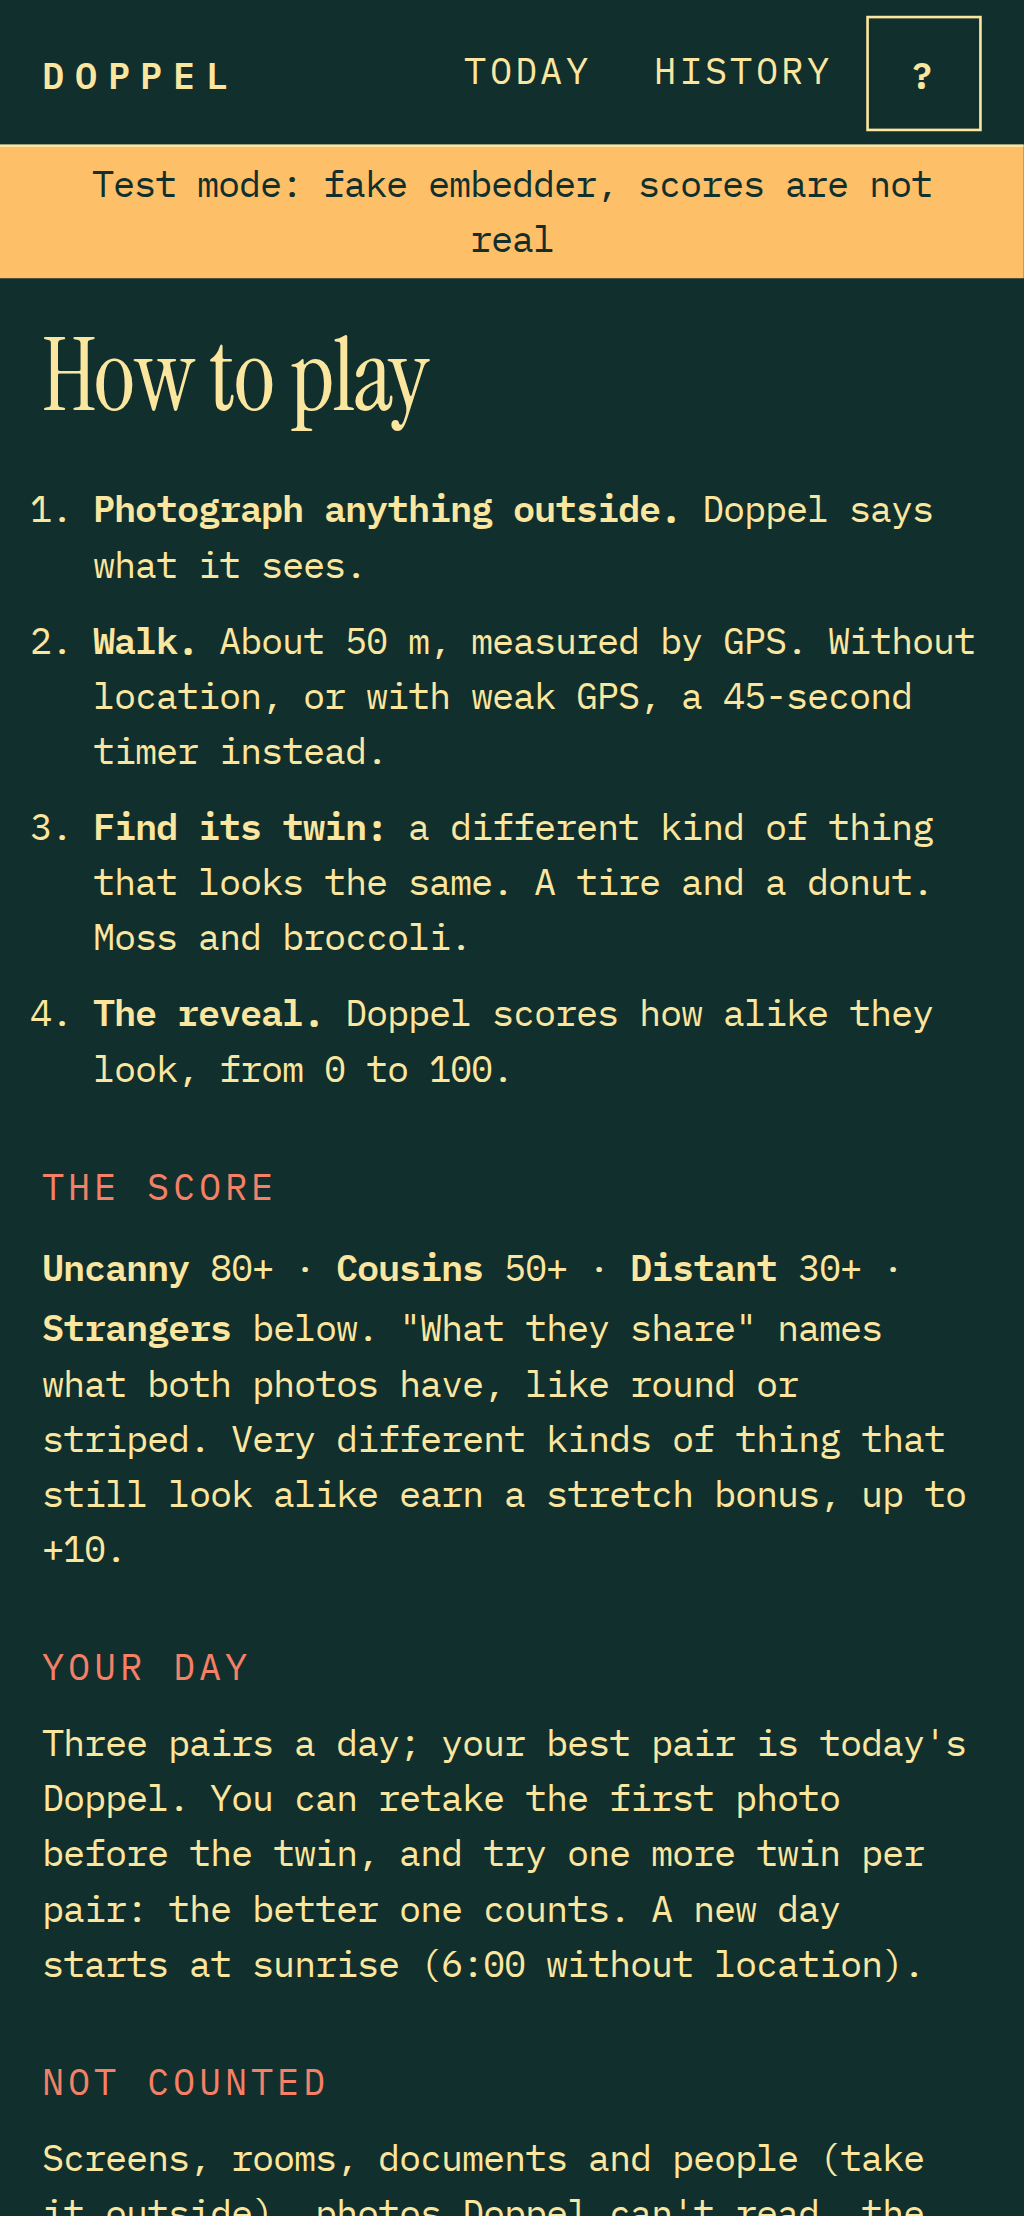
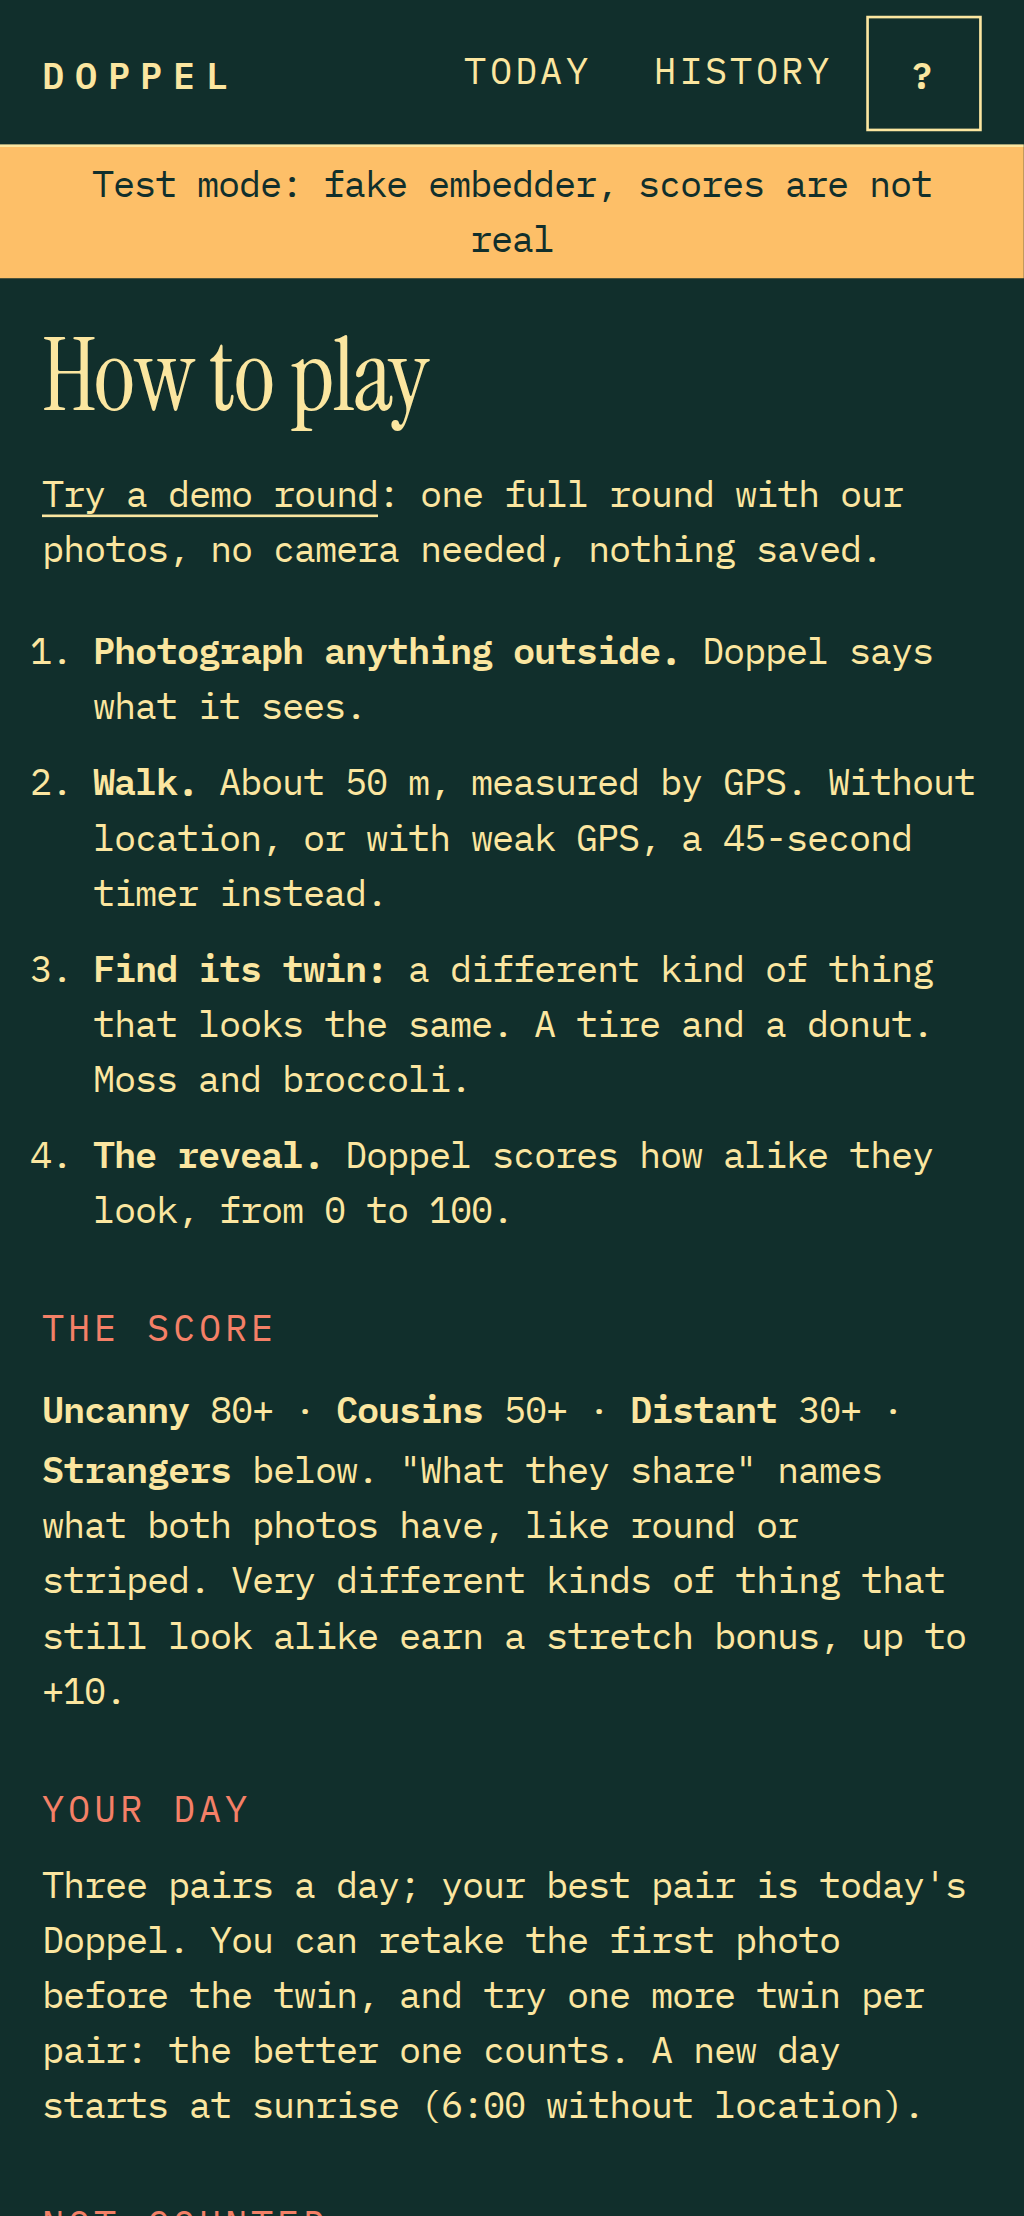
Demo round for judges: bundled CC0 pairs, no camera, real model, nothing saved

diff --git a/web/src/ui/screens.ts b/web/src/ui/screens.ts
@@ -25,6 +25,8 @@ const hud = (pair: number, right = "") => `
     <span class="hud-right" data-testid="hud-right">${right}</span>
   </div>`;
 
+const demoLink = `<p class="sub"><a href="${href.demo()}" data-testid="demo-link">Try a demo round</a> (no camera needed)</p>`;
+
 const themeReadout = (theme?: string) => (theme ? `<span data-testid="theme">Today: ${esc(theme)}</span>` : "");
 const walkedReadout = (meters: number) => `<span data-testid="walked">${meters} M WALKED</span>`;
 /** Walk: the timer while GPS isn't usable, otherwise metres walked on this walk. */
@@ -108,6 +110,7 @@ export function firstView(pair: number, ideas: string[], firstRun: boolean, prac
         <summary>Need an idea?</summary>
         <ul data-testid="ideas">${ideas.map((i) => `<li>${esc(i)}</li>`).join("")}</ul>
       </details>
+      ${demoLink}
       ${dock(shootButton("Photograph something"))}
     </section>`;
   }
@@ -125,6 +128,7 @@ export function firstView(pair: number, ideas: string[], firstRun: boolean, prac
         <summary>Need an idea?</summary>
         <ul data-testid="ideas">${ideas.map((i) => `<li>${esc(i)}</li>`).join("")}</ul>
       </details>
+      ${demoLink}
       ${dock(shootButton("Photograph something"))}
     </section>`;
 }
@@ -182,6 +186,7 @@ export function twinView(pair: number, label: string, looks: string[] = [], alt?
 }
 
 export interface RevealExtras {
+  demo?: boolean;
   canRetry: boolean;
   tries: number;
   secondKept: boolean; // after two tries: was the second twin the better one?
@@ -191,7 +196,7 @@ export function revealView(pair: number, p: Required<Pick<PairState, "first" | "
   const r = p.result;
   return `
     <section class="screen reveal" aria-label="Reveal" data-band="${r.band}">
-      ${hud(pair, walkedReadout(meters))}
+      ${x.demo ? demoHud() : hud(pair, walkedReadout(meters))}
       <div class="pair together" id="pair">
         ${slot("a", stack("a", p.first.label, true), "", r.band)}
         ${slot("b", stack("b", p.twin.label, true), "", r.band)}
@@ -203,12 +208,46 @@ export function revealView(pair: number, p: Required<Pick<PairState, "first" | "
       <p class="voice verdict" data-testid="verdict">${esc(r.verdict)}</p>
       <p class="shared" data-testid="shared"><span class="label">What they share</span> ${r.shared.length ? `Both: ${r.shared.map(esc).join(" · ")}` : NOTHING_SHARED}</p>
       ${x.tries >= 2 ? `<p class="best-of" data-testid="best-of"><span class="label">Best of 2</span> ${x.secondKept ? "Your second twin scored higher." : "Your first twin scored higher, so it stays."}</p>` : ""}
-      <div class="dock">
+      ${x.demo ? `<div class="dock">
+        <button class="btn btn-shoot" id="demo-again" type="button">Another demo pair</button>
+        <a class="link" href="${href.today()}">Back to today</a>
+      </div>` : `<div class="dock">
         <button class="btn btn-shoot" id="next" type="button">${last ? "See today" : "Next pair"}</button>
         ${x.canRetry ? `<button class="link" id="retry" type="button">Try another twin (one more walk)</button>` : ""}
+      </div>`}
+    </section>`;
+}
+
+/** Demo round (for judges, no camera): the same HUD row, labelled as a demo. */
+export const demoHud = () => `
+  <div class="hud" aria-label="Progress">
+    <span data-testid="demo-hud">DEMO ROUND</span>
+    <span class="hud-right">NOT SAVED</span>
+  </div>`;
+
+/** Demo, step 1: the first photo, what Doppel sees, and the skipped walk. */
+export function demoFirstView(state: { label?: string; alt?: string; looks?: string[]; tries?: string[] }): string {
+  return `
+    <section class="screen demo" aria-label="Demo round">
+      ${demoHud()}
+      <div class="pair">
+        ${slot("a", `<canvas id="photo-a" aria-label="Demo first photo"></canvas>`, "", "neutral")}
+        ${slot("b", `<span class="slot-word">its twin?</span>`)}
+      </div>
+      <p class="sees">${state.label ? sees(state.label, state.alt) : "Doppel is looking…"}</p>
+      <p class="demo-note" data-testid="demo-note"><span class="label">Demo</span> walk skipped. In the real game you walk about 50 m first.</p>
+      <h1 class="voice">A demo round, with our photos.</h1>
+      ${state.label ? `<p class="sub">${esc(notButLike(state.label))}</p>` : ""}
+      ${lookFor(state.looks ?? [])}
+      ${tryThese(state.tries ?? [])}
+      <div class="dock">
+        <div id="model-status"></div>
+        <button class="btn btn-shoot" id="demo-twin" type="button" ${state.label ? "" : `aria-disabled="true" disabled`}>Show its twin</button>
+        <p id="status" class="status" role="status" aria-live="polite"></p>
       </div>
     </section>`;
 }
+
 
 export interface DonePair {
   first: string;
@@ -272,6 +311,7 @@ export function howView(): string {
   return `
     <section class="screen how" aria-label="How to play">
       <h1 class="voice">How to play</h1>
+      <p class="sub"><a href="${href.demo()}" data-testid="demo-link">Try a demo round</a>: one full round with our photos, no camera needed, nothing saved.</p>
       <ol class="steps">
         <li><b>Photograph anything outside.</b> Doppel says what it sees.</li>
         <li><b>Walk.</b> About 50 m, measured by GPS. Without location, or with weak GPS, a 45-second timer instead.</li>

diff --git a/web/src/main.ts b/web/src/main.ts
@@ -18,7 +18,7 @@ import { band, checkShot, checkTwin, judgePair, PROBLEM_TEXT, readPhoto, suggest
 import { mountDebug } from "./ui/debug";
 import { esc, render } from "./ui/dom";
 import { loadModelWithStatus } from "./ui/model-status";
-import { doneView, firstView, historyView, howView, revealView, twinView, walkHud, walkPct, walkReadout, walkView, type DonePair } from "./ui/screens";
+import { demoFirstView, doneView, firstView, historyView, howView, revealView, twinView, walkHud, walkPct, walkReadout, walkView, type DonePair } from "./ui/screens";
 import { loadVocab } from "./vocab";
 import { addFix, denyGps } from "./walk";
 
@@ -326,6 +326,55 @@ async function takePhoto(file: File, which: "first" | "twin", onStatus: (s: stri
   return true;
 }
 
+// ---------- Demo round (for judges): bundled CC0 pairs, no camera, real model, nothing saved
+const DEMO_PAIRS: [string, string][] = [
+  ["05-pinecone.jpg", "05-artichoke.jpg"],
+  ["03-tree-bark.jpg", "03-elephant-skin.jpg"],
+  ["06-brick-wall.jpg", "06-chocolate-bar.jpg"],
+];
+let demoIndex = 0;
+
+async function demoShot(file: string) {
+  const blob = await (await fetch(`${import.meta.env.BASE_URL}demo/${file}`)).blob();
+  const [{ embedBlob }, vocab] = await Promise.all([prepareImage(blob), loadVocab()]);
+  const embedder = getEmbedder();
+  await embedder.ready();
+  let vector = await embedder.embedImage(embedBlob);
+  if (isFakeEmbedder()) vector = fakePhotoVector(file, vocab) ?? vector;
+  return { blob, vector, reading: readPhoto(vector, vocab), vocab };
+}
+
+async function showDemo(seq: number) {
+  const [fa, fb] = DEMO_PAIRS[demoIndex++ % DEMO_PAIRS.length];
+  render(app, demoFirstView({}));
+  try {
+    await Promise.all([loadModelWithStatus(app.querySelector("#model-status")!), loadVocab()]); // shows download progress first
+  } catch {
+    return; // the model status explains (e.g. no WebGPU)
+  }
+  if (seq !== routeSeq) return;
+  app.querySelector("#status")!.textContent = "Reading the first photo on your device…";
+  const A = await demoShot(fa);
+  if (seq !== routeSeq) return;
+  render(app, demoFirstView({ label: A.reading.label, alt: A.reading.alt, looks: topAttributes(A.reading.attrZ), tries: suggestTwins(A.vector, A.reading, A.vocab) }));
+  await drawPhoto(app.querySelector<HTMLCanvasElement>("#photo-a")!, A.blob);
+  const btn = app.querySelector<HTMLButtonElement>("#demo-twin")!;
+  btn.addEventListener("click", async () => {
+    btn.disabled = true;
+    btn.setAttribute("aria-disabled", "true");
+    app.querySelector("#status")!.textContent = "Reading the twin…";
+    const B = await demoShot(fb);
+    if (seq !== routeSeq) return;
+    const result = judgePair(A, B, `demo#${fa}`, undefined, A.vocab);
+    const ref = (id: string, label: string) => ({ id, ts: 0, label });
+    render(app, revealView(1, { first: ref("demo-a", A.reading.label), twin: ref("demo-b", B.reading.label), result }, false, { demo: true, canRetry: false, tries: 1, secondKept: false }));
+    await Promise.all([fillStack(app.querySelector('[data-stack="a"]'), A.blob, result.band), fillStack(app.querySelector('[data-stack="b"]'), B.blob, result.band)]);
+    if (seq !== routeSeq) return;
+    develop(app.querySelector("#pair"), app.querySelector<HTMLElement>("[data-testid=score]"));
+    app.querySelector("#demo-again")?.addEventListener("click", () => route());
+  });
+}
+
 // ---------- History
 async function showHistory(seq: number) {
   const days = await listDays();
@@ -358,6 +407,10 @@ function route() {
   if (r.name === "history") {
     document.body.dataset.phase = "history";
     return void showHistory(seq);
+  }
+  if (r.name === "demo") {
+    document.body.dataset.phase = "demo";
+    return void showDemo(seq);
   }
   if (r.name === "how") {
     document.body.dataset.phase = "how";

diff --git a/web/tests/e2e/demo.spec.ts b/web/tests/e2e/demo.spec.ts
@@ -1,0 +1,48 @@
+import { expect, test } from "@playwright/test";
+import path from "node:path";
+import { expectAccessible } from "./helpers";
+
+const MEDIA = path.join(import.meta.dirname, "../../../docs/media");
+test.use({ viewport: { width: 1280, height: 800 }, isMobile: false, hasTouch: false, permissions: [] }); // desktop, no camera, no location
+
+test("demo round on desktop: no camera, walk skipped, real reveal, nothing saved", async ({ page }) => {
+  await page.goto("/?embedder=fake#/");
+  await page.getByTestId("demo-link").click();
+  await expect(page.getByRole("region", { name: "Demo round" })).toBeVisible();
+  await expect(page.getByTestId("demo-note")).toContainText("walk skipped");
+  await expect(page.getByTestId("sees")).toHaveText(/^pinecone/);
+  await expect(page.getByTestId("tries")).toBeVisible();
+  await expect(page.locator("#photo")).toHaveCount(0); // no camera input anywhere in the demo
+  await expectAccessible(page, "demo first");
+  await page.getByRole("button", { name: "Show its twin" }).click();
+  await expect(page.getByRole("region", { name: "Reveal" })).toBeVisible();
+  await expect(page.getByTestId("labels")).toContainText("artichoke");
+  await expect(page.getByTestId("demo-hud")).toHaveText("DEMO ROUND");
+  await expect(page.getByTestId("score")).toHaveAttribute("data-value", /^\d+$/);
+  await page.waitForTimeout(1500);
+  await expectAccessible(page, "demo reveal");
+  await page.screenshot({ path: path.join(MEDIA, "demo-reveal-1280.png") });
+
+  await page.getByRole("button", { name: "Another demo pair" }).click();
+  await expect(page.getByTestId("sees")).toHaveText(/^tree bark/);
+
+  // never written: History is empty and IndexedDB has no days
+  await page.goto("/?embedder=fake#/history");
+  await expect(page.getByText("Nothing yet.")).toBeVisible();
+  const days = await page.evaluate(() => new Promise<number>((r) => { const q = indexedDB.open("doppel"); q.onsuccess = () => { const c = q.result.transaction("days").objectStore("days").count(); c.onsuccess = () => r(c.result); }; }));
+  expect(days).toBe(0);
+
+  // also reachable from the ? page
+  await page.getByRole("link", { name: "How to play" }).click();
+  await page.getByTestId("demo-link").click();
+  await expect(page.getByRole("region", { name: "Demo round" })).toBeVisible();
+});
+
+test("demo waits for the model: shows download progress and starts only when ready", async ({ page, context }) => {
+  await context.route(/huggingface\.co|\.litertlm/, () => new Promise(() => {})); // download never finishes
+  await page.goto("/#/demo"); // real embedder
+  await expect(page.getByRole("region", { name: "Demo round" })).toBeVisible();
+  await expect(page.locator("#model-status")).not.toBeEmpty({ timeout: 20_000 });
+  await expect(page.getByRole("button", { name: "Show its twin" })).toBeDisabled();
+  await expect(page.getByTestId("demo-note")).toBeVisible();
+});

diff --git a/web/src/style.css b/web/src/style.css
@@ -45,6 +45,9 @@ a { color: var(--fg); text-underline-offset: 3px; }
 .topbar nav a[aria-current] { border-color: var(--fg); }
 .topbar nav a.nav-help { width: 44px; justify-content: center; padding: 0; font-weight: 600; }
 
+.demo-note { margin: 4px 0 0; }
+.demo-note .label { margin-right: 6px; }
+
 /* ---------- how to play */
 .how h2.label { margin: 18px 0 2px; font-size: var(--t-s); font-weight: 400; }
 .steps { margin: 4px 0 0; padding-left: 1.4em; }
@@ -109,7 +112,7 @@ main { max-width: 520px; margin: 0 auto; padding: 0 var(--gutter); outline: none
 .best-of { text-align: center; margin: 6px 0 0; }
 .best-of .label { margin-right: 6px; }
 .link { background: none; border: 0; padding: 8px 0; color: var(--fg); font: inherit; text-decoration: underline; text-underline-offset: 3px; cursor: pointer; }
-.dock .link { display: block; margin: 6px auto 0; min-height: 44px; }
+.dock .link { display: block; margin: 6px auto 0; min-height: 44px; text-align: center; line-height: 28px; }
 .stretch { text-align: center; margin: 6px 0 0; color: var(--accent); }
 .verdict { text-align: center; font-size: var(--t-m); margin: 8px 0 4px; }
 .shared { text-align: center; margin: 4px 0 0; }

diff --git a/web/vite.config.ts b/web/vite.config.ts
@@ -47,7 +47,8 @@ const localModels = (): Plugin => {
 // service worker caches the one WASM variant a browser uses.
 // The vocab vectors (public/vocab-<hash>.bin) are precached too: no shot can be scored without them.
 const VOCAB_FILE = JSON.parse(readFileSync("../data/vocab-vectors.json", "utf8")).file;
-const PUBLIC_PRECACHE = ["index.html", "manifest.webmanifest", "icon.svg", "icon-192.png", "icon-512.png", VOCAB_FILE, "practice/cloud.jpg", "practice/cotton.jpg"];
+const DEMO_FILES = ["05-pinecone.jpg", "05-artichoke.jpg", "03-tree-bark.jpg", "03-elephant-skin.jpg", "06-brick-wall.jpg", "06-chocolate-bar.jpg"].map((f) => `demo/${f}`);
+const PUBLIC_PRECACHE = ["index.html", "manifest.webmanifest", "icon.svg", "icon-192.png", "icon-512.png", VOCAB_FILE, "practice/cloud.jpg", "practice/cotton.jpg", ...DEMO_FILES];
 const serviceWorker = (): Plugin => ({
   name: "service-worker",
   apply: "build",

diff --git a/web/src/router.ts b/web/src/router.ts
@@ -1,12 +1,14 @@
-export type Route = { name: "today" } | { name: "history" } | { name: "how" };
+export type Route = { name: "today" } | { name: "history" } | { name: "how" } | { name: "demo" };
 
 export function parseHash(hash: string): Route {
   const [, name = ""] = hash.replace(/^#/, "").split("/");
-  return name === "history" ? { name: "history" } : name === "how" ? { name: "how" } : { name: "today" };
+  if (name === "history" || name === "how" || name === "demo") return { name };
+  return { name: "today" };
 }
 
 export const href = {
   today: () => "#/",
   history: () => "#/history",
   how: () => "#/how",
+  demo: () => "#/demo",
 };

diff --git a/web/public/demo/CREDITS.md b/web/public/demo/CREDITS.md
@@ -1,0 +1,12 @@
+# Demo round photos
+
+Played by "Try a demo round" (no camera needed). All CC0 or public domain, downscaled to 640 px; same files as the test fixtures.
+
+| File | Title | Author | License | Source | Note |
+|---|---|---|---|---|---|
+| `03-tree-bark.jpg` | File:Bark of Sapota tree.jpg | Saral Shots | CC0 | https://commons.wikimedia.org/wiki/File:Bark_of_Sapota_tree.jpg |  |
+| `03-elephant-skin.jpg` | elephant skin | lisafree54 | CC0 1.0 | https://www.flickr.com/photos/136594255@N06/23462896942 |  |
+| `05-pinecone.jpg` | File:Upright pine cone.jpg | Packer1028 | CC0 | https://commons.wikimedia.org/wiki/File:Upright_pine_cone.jpg |  |
+| `05-artichoke.jpg` | Artichoke vegetable, edible plant | rawpixel | CC0 1.0 | https://www.rawpixel.com/image/6028752/photo-image-public-domain-plant-food |  |
+| `06-brick-wall.jpg` | File:Surfaces vertical brick wall closeup view.JPG | Tomwsulcer | CC0 | https://commons.wikimedia.org/wiki/File:Surfaces_vertical_brick_wall_closeup_view.JPG |  |
+| `06-chocolate-bar.jpg` | File:Green and Black's dark chocolate bar 2.jpg | Mx. Granger | CC0 | https://commons.wikimedia.org/wiki/File:Green_and_Black%27s_dark_chocolate_bar_2.jpg |  |
